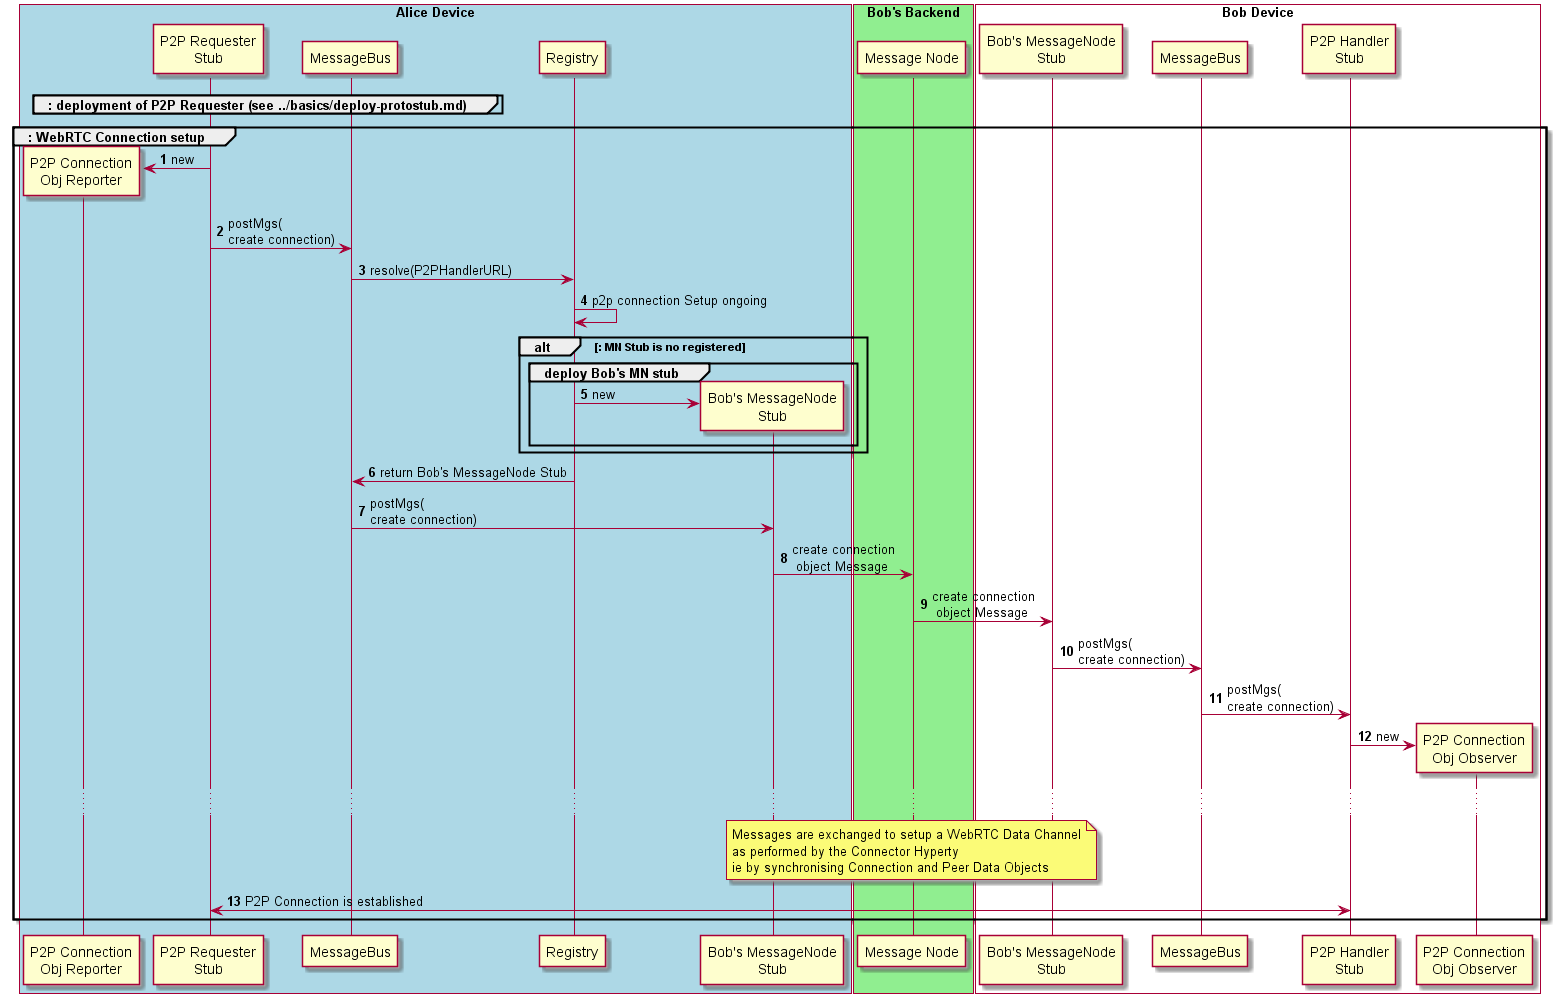
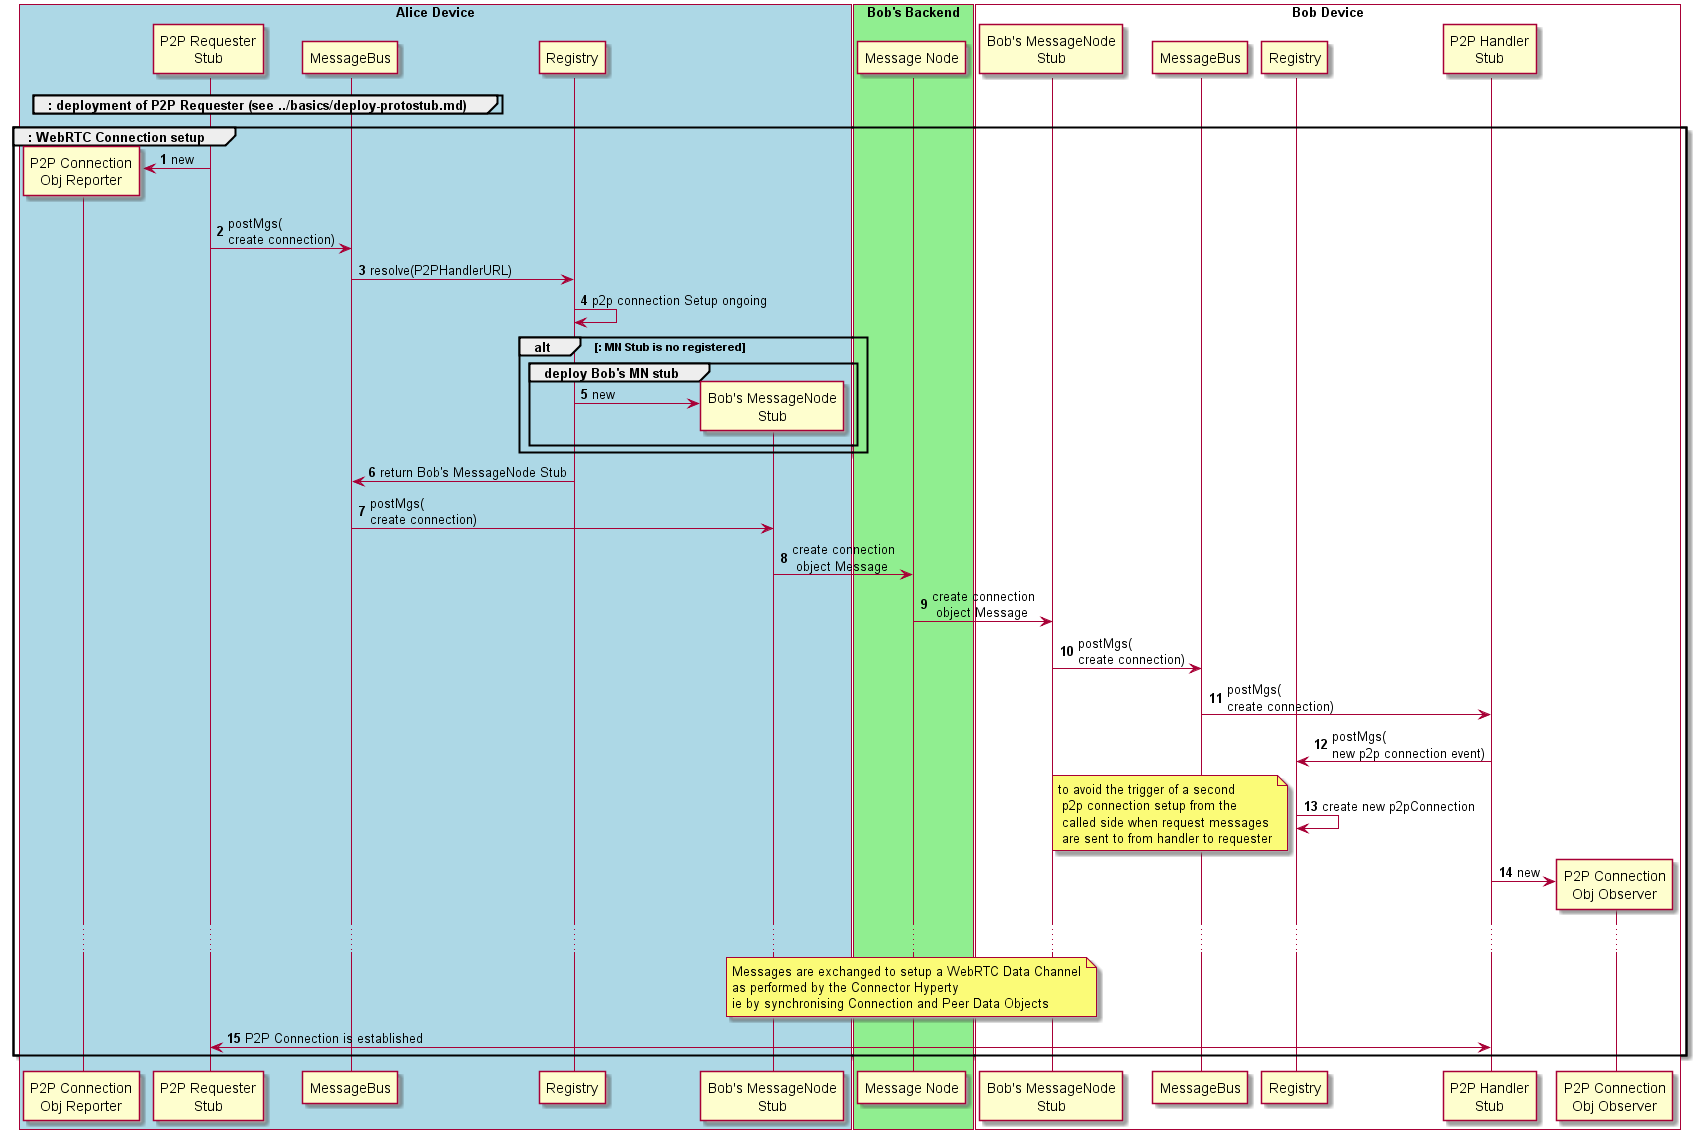
update to p2p specs

Changed region(s): [[0.0, 0.0, 1.0, 1.0]]

diff --git a/dynamic-view/basics/p2p-setup.md b/dynamic-view/basics/p2p-setup.md
@@ -9,7 +9,7 @@ This section describes how P2P Connections are performed as triggered by the [re
 
 Steps 1 - 8. As soon as the P2P Requester is activated, it starts the setup process which will be done through messages sent through "local MN StubURL". The Registry resolve invocation will return Bob's Msg Node Stub URL since the P2P Connection is still not connected (check status=connecting). See [Address Resolve description, for "P2P connection is registered but not connected yet"](resolve-routing-address.md) for the detailed spec.
 
-Steps 9-12: On the remote peer, messages are handled by P2P Handler Sub that was deployed when the Runtime was instantiated. Messages are exchanged among the two Stubs using the Reporter - Observer pattern applied to the Connection data model to establish the WebRTC Data Channel as it is done with the Connector Hyperty. In this case the P2P Requester protostub is the Reporter of the Connection data object while the P2P Handler protostub is the Observer.
+Steps 9-14: On the remote peer, messages are handled by P2P Handler Sub that was deployed when the Runtime was instantiated. Messages are exchanged among the two Stubs using the Reporter - Observer pattern applied to the Connection data model to establish the WebRTC Data Channel as it is done with the Connector Hyperty. In this case the P2P Requester protostub is the Reporter of the Connection data object while the P2P Handler protostub is the Observer. To be noted that an event with "status=created" is fired by the handler stub as soon as a p2p request is received. This event is received by the runtime registry that will create a new p2pConnection entry to avoid a second p2p connection setup is triggered when signalling messages request sent by the handler are resolved by the registry.
 
 ![P2P Connection Registration for Handler](p2p-registration-for-handler.png)
 

diff --git a/datamodel/core/hyperty-registry/readme.md b/datamodel/core/hyperty-registry/readme.md
@@ -16,7 +16,7 @@ Each of these objects share a common set of data:
 -	URL: address to reach the instance. The URL type will depend on the Registry Data Object class eg for Hyperty Instance it will be HypertyURL (see below)
 -	descriptor: a link to the Catalogue from where the descriptor of the instance can be retrieved
 -	the starting date and the last time the Instance was modified. The dates format must be compliant with [ISO8601](https://en.wikipedia.org/wiki/ISO_8601)
--	status: the instance status (Created, Live or Dead)
+-	status: the instance status ("created", "live", "disconnected" or "dead")
 - expires: period of time in seconds about how long a registry entry is "alive" without receiving an update message.
 -	stubs: the protocol stubs descriptor (including the deployable protocol stub package) that can be used to reach the registered Object including Hyperty Instance, Hyperty Runtime and Data Objects. The protocol stub can be used to reach the Object instance through a Message Node or directly connect to the Object Instance runtime (full P2P connection)
 -	stubsConfiguration: configuration data required when deploying stubs used for P2P connections.

diff --git a/messages/p2p-connection-messages.md b/messages/p2p-connection-messages.md
@@ -94,6 +94,20 @@ With this message the P2P Handler Stub invoke `minibus.addListener( <p2p-connect
 "body" : { "code" : "2XX" }
 ```
 
+##### New P2P Connection event
+
+Event to notify the Registry there is a new P2P Connection.
+
+```
+"id" : 3,
+"type" : "create",
+"from" : "<P2PHandlerStubURL>",
+"to" :  "<P2PHandlerStubURL>/status",
+"body" : { "value" : "created", "resource" : <remoteRuntimeURL> }
+```
+
+
+
 ##### Subscribe for Registry changes
 
 Request to receive notifications about changes in a remote Runtime Registry.

diff --git a/dynamic-view/basics/deploy-protostub.md b/dynamic-view/basics/deploy-protostub.md
@@ -32,5 +32,5 @@ Message to publish Protocol Stub Status
 "from" : "hyperty-runtime://sp1/protostub/123",
 "to" : "hyperty-runtime://sp1/protostub/123/status",
 
-"body" : { "value" : "LIVE" }
+"body" : { "value" : "live" }
 ```
